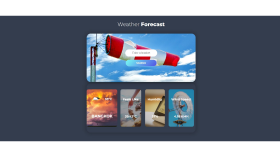
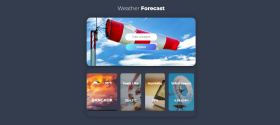
feat: implemen Portfolio section

diff --git a/src/components/CardDisplayer/CardDisplayer.jsx b/src/components/CardDisplayer/CardDisplayer.jsx
@@ -2,16 +2,11 @@ import React from 'react'
 import Carousel from 'react-material-ui-carousel'
 import { Paper, Button, Box, Typography } from '@mui/material'
 
-import skillBannerImg from '../../assets/images/skill-banner.png'
-import toolBannerImg from '../../assets/images/tool-banner.png'
-
-import SkillCard from '../SkillContainer/SkillCard/SkillCard'
-
 import ArrowForwardIosIcon from '@mui/icons-material/ArrowForwardIos';
 import ArrowBackIosNewIcon from '@mui/icons-material/ArrowBackIosNew';
 import HorizontalRuleIcon from '@mui/icons-material/HorizontalRule';
 
-function CardDisplayer({ items, cardComponent }) {
+function CardDisplayer({ items, cardComponent, type = 'skill' }) {
 
     // console.log('items: ', items)
 
@@ -19,8 +14,8 @@ function CardDisplayer({ items, cardComponent }) {
 
     return (
         <Carousel
-            NextIcon={<ArrowForwardIosIcon />}
-            PrevIcon={<ArrowBackIosNewIcon />}
+            NextIcon={items.length > 1 ? <ArrowForwardIosIcon /> : false}
+            PrevIcon={items.length > 1 ? <ArrowBackIosNewIcon /> : false}
             navButtonsProps={{          // Change the colors and radius of the actual buttons. THIS STYLES BOTH BUTTONS
                 style: {
                     backgroundColor: 'none',
@@ -29,14 +24,15 @@ function CardDisplayer({ items, cardComponent }) {
                     color: 'white'
                 }
             }}
-            navButtonsAlwaysVisible={true}
+            navButtonsAlwaysVisible={items.length > 1 ? true : false}
             navButtonsWrapperProps={{   // Move the buttons to the bottom. Unsetting top here to override default style.
                 style: {
                     color: '#25AE92',
                     display: 'inline-block'
                 }
             }}
-            IndicatorIcon={< HorizontalRuleIcon sx={{ fontSize: '50px' }} />}
+            IndicatorIcon={items.length > 1 ? < HorizontalRuleIcon sx={{ fontSize: '50px' }} /> : <></>}
+            // IndicatorIcon={< HorizontalRuleIcon sx={{ fontSize: '50px' }} />}
             activeIndicatorIconButtonProps={{
                 style: {
                     color: '#25AE92'
@@ -63,7 +59,12 @@ function CardDisplayer({ items, cardComponent }) {
                     >
                         {item.map(info => {
                             return (
-                                < Card title={info.name} Icon={info.icon} type={info.type} key={info.name} />
+                                <>
+                                    {type === 'skill'
+                                        ? < Card title={info.name} Icon={info.icon} type={info.type} key={info.name} />
+                                        : < Card title={info.name} img={info.img} caption={info.caption} stacks={info.stacks} tag={info.tag} link={info.link} key={info.name} />
+                                    }
+                                </>
                             )
                         })}
                     </Box>
@@ -71,24 +72,6 @@ function CardDisplayer({ items, cardComponent }) {
             }
 
         </Carousel >
-    )
-}
-
-function Item(props) {
-    return (
-        <Paper sx={{
-            width: '280px', height: '350px', backgroundImage: `url(${backgroundImg})`,
-            '&: hover': {
-                transform: 'scale(1.1)'
-            }
-        }}>
-            <h2>{props.item.name}</h2>
-            <p>{props.item.description}</p>
-
-            <Button className="CheckButton">
-                Check it out!
-            </Button>
-        </Paper>
     )
 }
 

diff --git a/src/components/PortfolioContainer/data.js b/src/components/PortfolioContainer/data.js
@@ -1,37 +1,53 @@
-// import icon
+// import image
 import exeractImage from "../../assets/images/exeract.png";
 import reactWeatherImage from "../../assets/images/react-weather.png";
 import vueWeatherImage from "../../assets/images/vue-weather.png";
-import formValidationImage from "../../assets/images/form-validation.png";
-import freeCodeCampPortImage from "../../assets/images/free-code-camp-port.png";
-import nftCardImage from "../../assets/images/nft.png";
+// import formValidationImage from "../../assets/images/form-validation.png";
+// import freeCodeCampPortImage from "../../assets/images/free-code-camp-port.png";
+// import nftCardImage from "../../assets/images/nft.png";
 
-export const skills = [
-	[
-		{ name: "React", icon: reactIcon, type: "skill" },
-		{ name: "Vue", icon: vueIcon, type: "skill" },
-		{ name: "Mui", icon: muiIcon, type: "skill" },
-	],
-	[
-		{ name: "HTML", icon: htmlIcon, type: "skill" },
-		{ name: "CSS", icon: cssIcon, type: "skill" },
-		{ name: "Bootstrap", icon: bootstrapIcon, type: "skill" },
-	],
-	[
-		{ name: "Node", icon: nodeIcon, type: "skill" },
-		{ name: "Express", icon: expressIcon, type: "skill" },
-		{ name: "Mongo", icon: mongoIcon, type: "skill" },
-	],
-];
+import {
+	FaReact,
+	FaHtml5,
+	FaCss3Alt,
+	FaBootstrap,
+	FaNodeJs,
+} from "react-icons/fa";
+import {
+	SiVuedotjs,
+	SiMaterialui,
+	SiExpress,
+	SiMongodb,
+} from "react-icons/si";
 
-export const tools = [
+export const projects = [
 	[
-		{ name: "Git", icon: gitIcon, type: "tool" },
-		{ name: "Figma", icon: figmaIcon, type: "tool" },
-		{ name: "Filezilla", icon: fileZillaIcon, type: "tool" },
-	],
-	[
-		{ name: "VSCode", icon: vsCodeIcon, type: "tool" },
-		{ name: "Jira", icon: jiraIcon, type: "tool" },
+		{
+			name: "Exeract App.",
+			img: exeractImage,
+			caption:
+				"This app is allowed you to record your exercise activity like a diary of your exercise",
+			stacks: [FaReact, FaNodeJs, SiExpress, SiMongodb],
+			link: "https://activity-app-crud.vercel.app/",
+			tag: "#CRUD",
+		},
+		{
+			name: "React Weather App.",
+			img: reactWeatherImage,
+			caption:
+				"This app is allowed you to see the weather in your city. Using Open weather API and axios to get the weather data.",
+			stacks: [FaReact, FaHtml5, FaCss3Alt],
+			link: "https://react-weather-ew3gu1pv3-devartifacts.vercel.app/",
+			tag: "#API",
+		},
+		{
+			name: "Vue Weather App.",
+			img: vueWeatherImage,
+			caption:
+				"This app is allowed you to see the weather in your city. Using Open weather API and axios to get the weather data.",
+			stacks: [SiVuedotjs, FaHtml5, FaCss3Alt],
+			link: "https://vue-weather-app-gilt.vercel.app/",
+			tag: "#API",
+		},
 	],
 ];

diff --git a/src/components/PortfolioContainer/PortfolioCard/PortfolioCard copy.jsx b/src/components/PortfolioContainer/PortfolioCard/PortfolioCard copy.jsx
@@ -1,0 +1,58 @@
+import React from 'react'
+import { Paper, Button, Link, Typography, Grid, Divider } from '@mui/material'
+
+// lib
+import { IconContext } from "react-icons";
+
+function PortfolioCard({ title, img, stacks, link, caption, tag }) {
+    return (
+        <Paper
+            sx={{
+                width: '230px',
+                height: '287.5px',
+                borderRadius: '20px',
+                '&: hover': {
+                    transform: 'scale(1.1)',
+                }
+            }}
+        >
+            <Grid container rowSpacing={0} >
+                <Grid item xs={12} >
+                    <img src={img} alt={title} style={{ width: '100%', height: 'auto', borderRadius: '20px 20px 0 0', }} />
+                </Grid>
+                <Grid item xs={12} sx={{ paddingLeft: '10px', marginBottom: '5px' }} >
+                    <Typography variant={'h3'} sx={{ fontSize: '16px', fontWeight: 'medium', textAlign: 'start' }} >{title}</Typography>
+                </Grid>
+                <Grid item xs={12} sx={{ maxHeight: '75px', textAlign: 'justify', paddingLeft: '10px', paddingRight: '10px' }} >
+                    <Typography variant={'body'} sx={{ width: '100%', lineHeight: '1', fontSize: '12px' }} >{caption}</Typography>
+                </Grid>
+                <Divider light sx={{ width: '100%', color: 'black' }} />
+                <Grid item xs={12} sx={{ padding: '20px' }} >
+                    <Typography variant={'caption'}>Tech Stack</Typography>
+                    {stacks.length > 0 &&
+                        stacks.map(stack => {
+                            return (
+                                <IconContext.Provider
+                                    value={{ color: "black", className: "global-class-name" }}
+                                    style={{ padding: "5px" }}
+                                >
+                                    < stack />
+                                </IconContext.Provider>
+                            )
+                        })
+                    }
+                </Grid>
+                <Grid container item xs={12} >
+                    <Grid item xs={11}>
+                        <Button component={Link} href={link} > Explore </Button>
+                    </Grid>
+                    <Grid item xs={1}>
+                        <Typography variant={'caption2'}>{tag}</Typography>
+                    </Grid>
+                </Grid>
+            </Grid>
+        </Paper>
+    )
+}
+
+export default PortfolioCard

diff --git a/src/components/PortfolioContainer/PortfolioCard/PortfolioCard.jsx b/src/components/PortfolioContainer/PortfolioCard/PortfolioCard.jsx
@@ -1,8 +1,62 @@
 import React from 'react'
+import { Paper, Button, Link, Typography, Stack, Divider, Card, CardActions, CardContent, CardMedia } from '@mui/material'
 
-function PortfolioCard() {
+// lib
+import { IconContext } from "react-icons";
+
+function PortfolioCard({ title, img, stacks, link, caption, tag }) {
     return (
-        <div>PortfolioCard</div>
+        <Card
+            sx={{
+                width: '230px',
+                height: '320px',
+                display: 'flex',
+                background: 'black',
+                flexDirection: 'column',
+                justifyContent: 'space-between',
+                borderRadius: '20px',
+                '&: hover': {
+                    transform: 'scale(1.1)',
+                }
+            }}
+        >
+            <CardMedia
+                component="img"
+                alt={title}
+                height="140"
+                image={img}
+                sx={{ filter: "grayscale(100%)" }}
+            />
+            <CardContent sx={{ padding: 0, padding: '0.4rem' }}>
+                <Typography gutterBottom variant="h5" component="div" sx={{ fontSize: '16px', textAlign: 'start', color: 'white' }}>
+                    {title}
+                </Typography>
+                <Typography variant="body2" color="text.secondary" sx={{ fontSize: '12px', textAlign: 'justify', color: '#D9D9D9' }}>
+                    {caption}
+                </Typography>
+                <Divider light sx={{ marginTop: '0.25rem ', marginBottom: '0.35rem', background: '#D9D9D9' }} />
+                <Stack direction="row" spacing={1}>
+                    {stacks.map(Tech => (
+                        <IconContext.Provider
+                            value={{ color: "white", className: "global-class-name" }}
+                            style={{ padding: "5px" }}
+                        >
+                            < Tech />
+                        </IconContext.Provider>
+                    )
+                    )}
+                </Stack>
+            </CardContent>
+            <CardActions sx={{ display: 'flex', justifyContent: 'center' }}>
+                <Button
+                    disableElevation
+                    variant="contained"
+                    href={link} size=" small"
+                    sx={{ color: 'black', background: 'white' }}>
+                    Learn More
+                </Button>
+            </CardActions>
+        </Card >
     )
 }
 

diff --git a/src/components/SkillContainer/data.js b/src/components/SkillContainer/data.js
@@ -31,6 +31,7 @@ import {
 	SiMongodb,
 	SiVisualstudio,
 	SiFilezilla,
+	SiPostman,
 } from "react-icons/si";
 import { CgFigma } from "react-icons/cg";
 
@@ -59,12 +60,13 @@ export const skills = [
 
 export const tools = [
 	[
-		{ name: "Git", icon: FaGitAlt , type: "tool" },
-		{ name: "Figma", icon: CgFigma , type: "tool" },
-		{ name: "Filezilla", icon: SiFilezilla , type: "tool" },
+		{ name: "Git", icon: FaGitAlt, type: "tool" },
+		{ name: "PostMan", icon: SiPostman, type: "tool" },
+		{ name: "Figma", icon: CgFigma, type: "tool" },
 	],
 	[
-		{ name: "VSCode", icon: SiVisualstudio , type: "tool" },
-		{ name: "Jira", icon: FaJira , type: "tool" },
+		{ name: "VSCode", icon: SiVisualstudio, type: "tool" },
+		{ name: "Jira", icon: FaJira, type: "tool" },
+		{ name: "Filezilla", icon: SiFilezilla, type: "tool" },
 	],
 ];

diff --git a/src/components/PortfolioContainer/PortfolioContainer.jsx b/src/components/PortfolioContainer/PortfolioContainer.jsx
@@ -8,9 +8,9 @@ import PortfolioTableContainer from './PortfolioTableContainer/PortfolioTableCon
 // image
 import PortfolioContainerImage from '../../assets/images/portfolio-banner.png'
 
+// data
+import { projects } from './data'
 
-
-const buttons = ['skills', 'tools']
 
 function PortfolioContainer() {
     return (
@@ -18,7 +18,7 @@ function PortfolioContainer() {
             <Grid container item xs={10} sx={{ textAlign: 'center', paddingTop: '20px' }} >
                 <Grid item xs={12}>
                     <SectionTitle title={'portfolio'} color={'white'} />
-                    <PortfolioTableContainer />
+                    <PortfolioTableContainer items={projects} />
                 </Grid>
             </Grid>
             <Grid item xs={2} sx={{ display: 'flex', justifyContent: 'center', alignItems: 'center' }} >

diff --git a/src/components/SkillContainer/SkillTableContainer/SkillTableContainer.jsx b/src/components/SkillContainer/SkillTableContainer/SkillTableContainer.jsx
@@ -8,7 +8,6 @@ const buttons = ['skills', 'tools']
 
 function SkillTableContainer({ handleCategory, category, items }) {
 
-
     return (
         <Grid container sx={{ height: '90%', marginTop: '10px' }}>
             <Grid item xs={12} sx={{}}>
@@ -37,7 +36,7 @@ function SkillTableContainer({ handleCategory, category, items }) {
                 </ButtonGroup>
             </Grid>
             <Grid item xs={12} sx={{}} >
-                <CardDisplayer items={items} cardComponent={SkillCard} />
+                <CardDisplayer items={items} cardComponent={SkillCard} type={'skill'} />
             </Grid>
         </Grid>
     )

diff --git a/src/App.jsx b/src/App.jsx
@@ -23,19 +23,12 @@ function App() {
 
   return (
     <>
-      {/* <IconContext.Provider value={{ color: "red", className: "global-class-name" }} >
-        <FaBeer size={50} />
-      </IconContext.Provider> */}
 
       <NavContainer />
       <BannerContainer />
-      {/* <Divider variant="middle">
-        <Chip label="CHIP" />
-      </Divider> */}
-      {/* <Divider sx={{ height: '100px' }} /> */}
       <AboutMeContainer />
       <SkillContainer />
-      {/* <PortfolioContainer /> */}
+      <PortfolioContainer />
     </>
   )
 }

diff --git a/src/components/PortfolioContainer/PortfolioTableContainer/PortfolioTableContainer.jsx b/src/components/PortfolioContainer/PortfolioTableContainer/PortfolioTableContainer.jsx
@@ -6,10 +6,11 @@ import PortfolioCard from '../PortfolioCard/PortfolioCard'
 
 
 function PortfolioTableContainer({ items }) {
+    console.log('items', items)
     return (
         <Grid container sx={{ height: '90%', marginTop: '10px' }}>
             <Grid item xs={12} sx={{}} >
-                <CardDisplayer items={items} cardComponent={PortfolioCard} />
+                <CardDisplayer items={items} cardComponent={PortfolioCard} type={'portfolio'} />
             </Grid>
         </Grid>
     )

diff --git a/src/components/SkillContainer/SkillCard/SkillCard.jsx b/src/components/SkillContainer/SkillCard/SkillCard.jsx
@@ -31,7 +31,6 @@ function SkillCard({ title, Icon, type }) {
                     >
                         {IconElement}
                     </IconContext.Provider>
-                    {/* <img src={icon} alt={title} style={{ width: '120px', height: 'auto', paddingTop: '.75rem', objectFit: 'cover' }} /> */}
                 </Grid>
                 <Grid item xs={12} >
                     <Typography variant={'h3'}>{title}</Typography>
